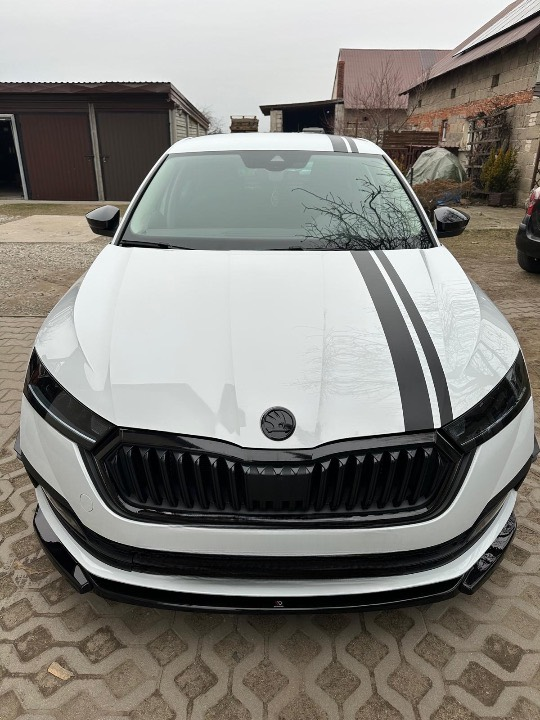
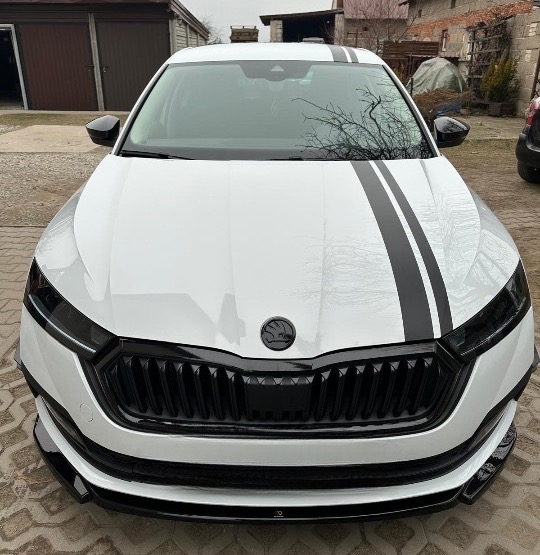
bb

diff --git a/index.html b/index.html
@@ -560,12 +560,12 @@
       </div>
       <div class="gallery__grid container">
         <figure class="gitem reveal"><img src="img/g-audi-s5.jpg" alt="Czarne Audi S5 po powłoce ceramicznej" loading="lazy"><figcaption><span>Powłoka ceramiczna</span></figcaption></figure>
-        <figure class="gitem reveal"><img src="img/g-bmw-polerowanie.jpg" alt="Czarne BMW X4 po polerowaniu i korekcie lakieru" loading="lazy"><figcaption><span>Polerowanie | korekta lakieru</span></figcaption></figure>
+        <figure class="gitem reveal"><img class="gitem__img--contain" src="img/g-bmw-polerowanie.jpg" alt="Czarne BMW X4 po polerowaniu i korekcie lakieru" loading="lazy"><figcaption><span>Polerowanie | korekta lakieru</span></figcaption></figure>
         <figure class="gitem reveal"><img src="img/g-bmw-wnetrze.jpg" alt="Jasne wnętrze BMW X3 po pełnym detailingu wnętrza" loading="lazy"><figcaption><span>Pełny detailing wnętrza</span></figcaption></figure>
         <figure class="gitem reveal"><img src="img/g-volvo.jpg" alt="Czarne Volvo XC60 po myciu detailingowym" loading="lazy"><figcaption><span>Mycie detailingowe</span></figcaption></figure>
         <figure class="gitem reveal"><img src="img/g-gyeon.jpg" alt="Wnętrze Audi zabezpieczone podczas detailingu" loading="lazy"><figcaption><span>Detailing wnętrza</span></figcaption></figure>
-        <figure class="gitem reveal"><img src="img/g-skoda.jpg" alt="Biała Škoda Octavia z ozdobnymi pasami" loading="lazy"><figcaption><span>Spersonalizowane projekty</span></figcaption></figure>
-        <figure class="gitem reveal"><img src="img/g-audi-r8-gold.jpg" alt="Złote Audi R8 Spyder po zmianie koloru" loading="lazy"><figcaption><span>Zmiana koloru</span></figcaption></figure>
+        <figure class="gitem reveal"><img class="gitem__img--contain" src="img/g-skoda.jpg" alt="Biała Škoda Octavia z ozdobnymi pasami" loading="lazy"><figcaption><span>Spersonalizowane projekty</span></figcaption></figure>
+        <figure class="gitem reveal"><img class="gitem__img--contain" src="img/g-audi-r8-gold.jpg" alt="Złote Audi R8 Spyder po zmianie koloru" loading="lazy"><figcaption><span>Zmiana koloru</span></figcaption></figure>
         <figure class="gitem reveal"><img src="img/g-vag-doposazenie.jpg" alt="Zestaw do montażu cyfrowego zegara Virtual Cockpit w aucie VAG" loading="lazy"><figcaption><span>Doposażenia VAG</span></figcaption></figure>
         <figure class="gitem reveal"><img src="img/g-rs3-obszywanie.jpg" alt="Alcantara z czerwonym przeszyciem i wypalonym laserowo logo RS3" loading="lazy"><figcaption><span>Obszywanie i wypalanie laserowe</span></figcaption></figure>
       </div>

diff --git a/css/style.css b/css/style.css
@@ -817,6 +817,10 @@ button { font: inherit; background: none; border: none; cursor: pointer; color: 
   transition: transform 0.6s var(--ease-out), filter 0.6s;
   will-change: transform;
 }
+.gitem img.gitem__img--contain {
+  object-fit: contain;
+  background: var(--bg);
+}
 .gitem:hover img { transform: scale(1.06); filter: brightness(0.7); }
 .gitem figcaption {
   position: absolute;